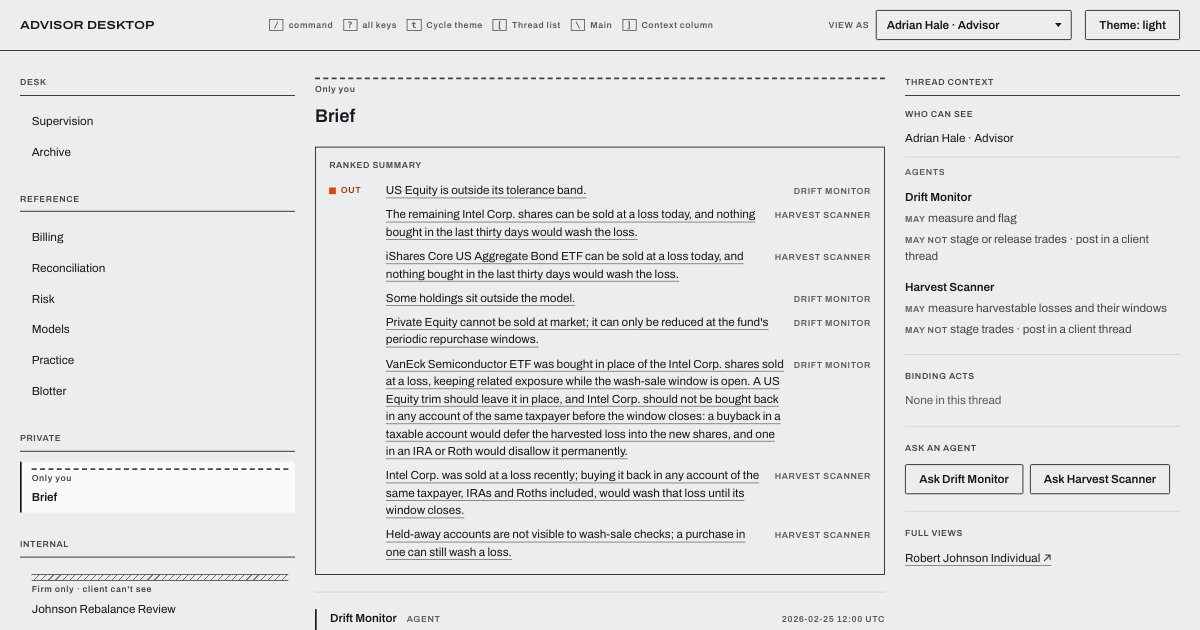
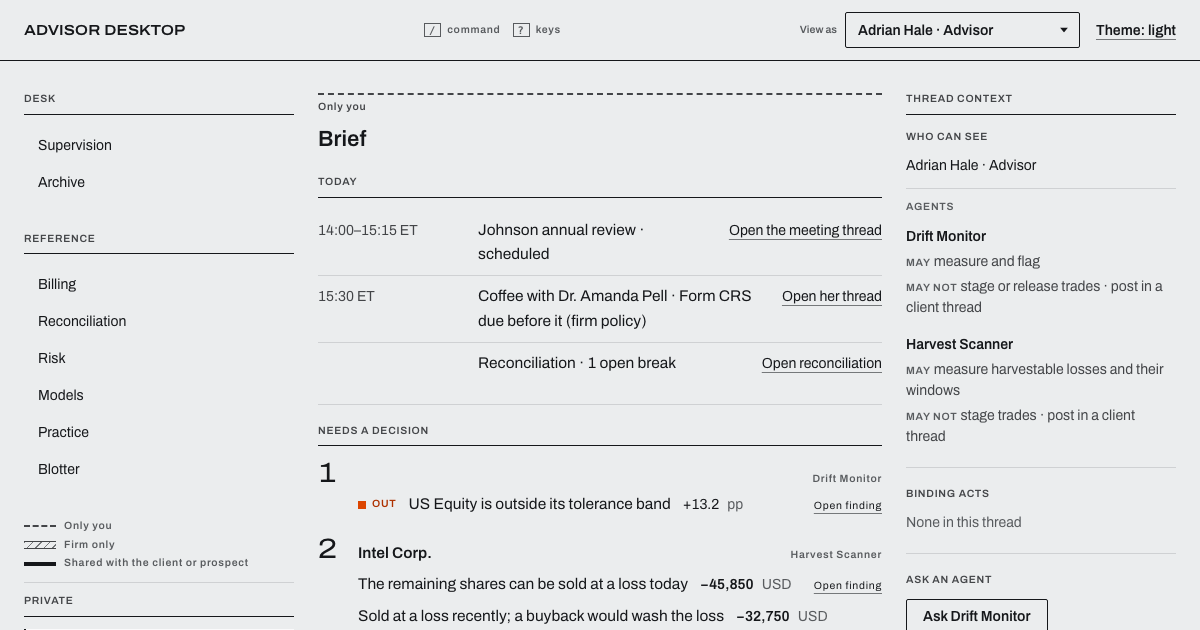
docs(readme): the five-minute path through Today, Needs a decision and the Take to menu; the README spec performs it; mobile CLS measured
The README and its spec follow the home page's eight steps, the Brief's Today, Needs a decision and
Context, and the finding's Take to menu; the spec runs axe at every dialog it opens. The hero alt, the
social card's alt and the social card itself show the new Brief. One clock in What it enforces; axe in
How it is built. pnpm measure:cls <base-url> measures mobile layout shift.

Mobile CLS (Pixel 7, 4x CPU, slow 4G, worst of three): / 0.000, /t/th-brief 0.000.

diff --git a/e2e-visual/workspace-steps.ts b/e2e-visual/workspace-steps.ts
@@ -40,6 +40,15 @@ export async function visitPhone(page: Page, path: string, theme: Theme) {
   if (pane === 'Thread') await expect(page.getByRole('heading', { level: 1 })).toBeVisible()
 }
 
+/** A check run while a step's dialog is open, before the step confirms it (the README path runs axe here). */
+export type AtDialog = (page: Page) => Promise<void>
+
+async function checkOpenDialog(dialog: Locator, atDialog: AtDialog | undefined) {
+  if (!atDialog) return
+  await expect(dialog).toBeVisible()
+  await atDialog(dialog.page())
+}
+
 export const heading = (page: Page) => page.getByRole('heading', { level: 1 })
 export const conversation = (page: Page) => page.getByRole('list', { name: 'Messages' })
 export const context = (page: Page) => page.getByRole('complementary', { name: 'Thread context' })
@@ -85,10 +94,12 @@ export const deskLink = (page: Page, name: 'Supervision' | 'Archive' | 'Billing'
   page.getByRole('navigation', { name: 'Threads' }).getByRole('link', { name, exact: true })
 
 /** The presenter's shortcut beside pending staged orders: Mark's default release, confirmed. */
-export async function releaseByShortcut(page: Page) {
+export async function releaseByShortcut(page: Page, atDialog?: AtDialog) {
   const panel = approvalOf(page)
   await panel.getByRole('button', { name: 'Demo · act as Mark Davis' }).click()
-  await page.getByRole('dialog', { name: /^Release v\d+ as Mark Davis\?$/ }).getByRole('button', { name: 'Confirm' }).click()
+  const dialog = page.getByRole('dialog', { name: /^Release v\d+ as Mark Davis\?$/ })
+  await checkOpenDialog(dialog, atDialog)
+  await dialog.getByRole('button', { name: 'Confirm' }).click()
   await expect(panel).toContainText('Released by compliance; filled at the day\'s prices.')
 }
 
@@ -101,9 +112,11 @@ export async function runPrep(page: Page) {
   await expect(page.getByRole('list', { name: 'Agenda · v1' })).toBeVisible()
 }
 
-export async function holdTheMeeting(page: Page) {
+export async function holdTheMeeting(page: Page, atDialog?: AtDialog) {
   await page.getByRole('button', { name: 'Hold the meeting', exact: true }).click()
-  await page.getByRole('dialog', { name: 'Hold the meeting?' }).getByRole('button', { name: 'Hold the meeting', exact: true }).click()
+  const dialog = page.getByRole('dialog', { name: 'Hold the meeting?' })
+  await checkOpenDialog(dialog, atDialog)
+  await dialog.getByRole('button', { name: 'Hold the meeting', exact: true }).click()
   await expect(page.getByRole('button', { name: 'Draft notes', exact: true })).toBeVisible()
 }
 
@@ -112,9 +125,11 @@ export async function draftNotes(page: Page) {
   await expect(page.getByRole('button', { name: 'File the record', exact: true })).toBeVisible()
 }
 
-export async function fileRecord(page: Page) {
+export async function fileRecord(page: Page, atDialog?: AtDialog) {
   await page.getByRole('button', { name: 'File the record', exact: true }).click()
-  await page.getByRole('dialog', { name: /^File the record of the .+\?$/ }).getByRole('button', { name: 'Confirm', exact: true }).click()
+  const dialog = page.getByRole('dialog', { name: /^File the record of the .+\?$/ })
+  await checkOpenDialog(dialog, atDialog)
+  await dialog.getByRole('button', { name: 'Confirm', exact: true }).click()
   await expect(page.getByText(/^Filed · REC-\d{4}/).first()).toBeVisible()
 }
 
@@ -136,16 +151,20 @@ export const PELL_ACCEPTANCE_TEXT = "I've read the proposal and I'd like to go a
 const JUMP_LABEL = { reply: 'Advance to her reply · Thu 26 Feb 09:10 ET', acceptance: 'Advance to her acceptance · Mon 2 Mar 10:00 ET' } as const
 
 /** A disclosure from her thread's timeline (or the onboarding checklist), confirmed as a binding act. */
-export async function deliver(page: Page, short: 'Form CRS' | 'ADV Part 2A' | 'ADV Part 2B' | 'privacy notice') {
+export async function deliver(page: Page, short: 'Form CRS' | 'ADV Part 2A' | 'ADV Part 2B' | 'privacy notice', atDialog?: AtDialog) {
   await context(page).getByRole('button', { name: `Deliver ${short}`, exact: true }).click()
-  await page.getByRole('dialog', { name: `Deliver ${short} to Dr. Amanda Pell?` }).getByRole('button', { name: 'Confirm' }).click()
+  const dialog = page.getByRole('dialog', { name: `Deliver ${short} to Dr. Amanda Pell?` })
+  await checkOpenDialog(dialog, atDialog)
+  await dialog.getByRole('button', { name: 'Confirm' }).click()
   await expect(context(page).getByRole('button', { name: `Deliver ${short}`, exact: true })).toHaveCount(0)
 }
 
-export async function recordTheCoffee(page: Page) {
+export async function recordTheCoffee(page: Page, atDialog?: AtDialog) {
   const clock = context(page).getByRole('region', { name: 'Clock' })
   await clock.getByRole('button', { name: 'Record the coffee' }).click()
-  await page.getByRole('dialog', { name: 'Record the coffee' }).getByRole('button', { name: 'Record', exact: true }).click()
+  const dialog = page.getByRole('dialog', { name: 'Record the coffee' })
+  await checkOpenDialog(dialog, atDialog)
+  await dialog.getByRole('button', { name: 'Record', exact: true }).click()
   await expect(clock).toContainText('Coffee recorded')
 }
 
@@ -158,33 +177,39 @@ export async function askAgentNamed(page: Page, name: string) {
   await context(page).getByRole('region', { name: 'Ask an agent' }).getByRole('button', { name: `Ask ${name}`, exact: true }).click()
 }
 
-export async function reviseToTwoTaxYears(page: Page) {
+export async function reviseToTwoTaxYears(page: Page, atDialog?: AtDialog) {
   const proposal = page.getByRole('region', { name: 'Proposal · Pell proposal' })
   await proposal.getByRole('button', { name: 'Revise' }).click()
   const dialog = page.getByRole('dialog', { name: 'Revise the Pell proposal' })
+  await checkOpenDialog(dialog, atDialog)
   await dialog.getByLabel('Staged sale of the concentrated stock').selectOption('2')
   await dialog.getByRole('button', { name: 'Ask for v2' }).click()
   await expect(proposal.getByRole('table', { name: 'Staged sale option · v2' })).toBeVisible()
 }
 
-export async function approveProspect(page: Page, version: number) {
+export async function approveProspect(page: Page, version: number, atDialog?: AtDialog) {
   const approval = context(page).getByRole('region', { name: 'Approval · Pell proposal' })
   await approval.getByRole('checkbox', { name: `I reviewed v${version}: its model, its transfer plan, its fees and the best-interest record.` }).check()
   await approval.getByRole('button', { name: `Approve v${version}` }).click()
-  await page.getByRole('dialog', { name: `Approve v${version} of the Pell proposal?` }).getByRole('button', { name: 'Confirm' }).click()
+  const dialog = page.getByRole('dialog', { name: `Approve v${version} of the Pell proposal?` })
+  await checkOpenDialog(dialog, atDialog)
+  await dialog.getByRole('button', { name: 'Confirm' }).click()
   await expect(approval).toContainText(`v${version} is approved`)
 }
 
-export async function sendToHer(page: Page, version: number) {
+export async function sendToHer(page: Page, version: number, atDialog?: AtDialog) {
   await context(page).getByRole('region', { name: 'Proposal' }).getByRole('button', { name: `Send v${version} to Dr. Pell` }).click()
-  await page.getByRole('dialog', { name: `Send v${version} to Dr. Pell?` }).getByRole('button', { name: 'Confirm' }).click()
+  const dialog = page.getByRole('dialog', { name: `Send v${version} to Dr. Pell?` })
+  await checkOpenDialog(dialog, atDialog)
+  await dialog.getByRole('button', { name: 'Confirm' }).click()
   await expect(conversation(page)).toContainText('Dear Dr. Pell,')
 }
 
 /** Resolve a reconciliation break as a binding act, from the reconciliation view. */
-export async function resolveBreakNamed(page: Page, breakId: string, resolution: string, rationale: string) {
+export async function resolveBreakNamed(page: Page, breakId: string, resolution: string, rationale: string, atDialog?: AtDialog) {
   await page.getByRole('button', { name: `Resolve ${breakId}`, exact: true }).click()
   const dialog = page.getByRole('dialog', { name: `Resolve ${breakId}?` })
+  await checkOpenDialog(dialog, atDialog)
   await dialog.getByLabel('Resolution').selectOption({ label: resolution })
   await dialog.getByLabel('Rationale').fill(rationale)
   await dialog.getByRole('button', { name: 'Confirm' }).click()

diff --git a/e2e-visual/readme-path.spec.ts b/e2e-visual/readme-path.spec.ts
@@ -1,22 +1,32 @@
 import { test, expect } from '@playwright/test'
+import { expectNoAxeViolations } from './axe'
 import {
   PELL_ACCEPTANCE_TEXT, advanceTo, approve, approveProspect, askAgentNamed, askForRecap, context, conversation, deliver, deskLink,
   draftNotes, embedOf, fileRecord, heading, holdTheMeeting, letterDraft, meetingPanel, recordTheCoffee, releaseByShortcut,
   resolveBreakNamed, reviseToTwoTaxYears, runPrep, sendToHer, takeFindingTo, takeToTeamThread, threadLink, viewAs, visit,
 } from './workspace-steps'
 
-/** The README's guided path, click for click and in its order, from a fresh session as Adrian Hale. */
+/** The README's guided path, click for click and in its order, from a fresh session as Adrian Hale; axe runs at every dialog. */
 test("the README's five-minute path, end to end", async ({ page }) => {
   test.setTimeout(600_000)
   await page.setViewportSize({ width: 1440, height: 900 })
   const back = () => page.getByRole('link', { name: 'Back to the thread' }).click()
   const home = () => page.getByRole('banner').getByRole('link', { name: 'Advisor Desktop' }).click()
+  const path = page.getByRole('list', { name: 'The five-minute path' }).getByRole('listitem')
+  const axe = expectNoAxeViolations
 
-  // 1. The Brief.
+  // The home page: the eight steps, the first one next.
   await visit(page, '/', 'light')
+  await expect(path).toHaveCount(8)
+  await expect(path.first()).toContainText('NEXT')
+
+  // 1. The Brief: Today, Needs a decision, Context.
   await threadLink(page, 'Brief').click()
   await expect(heading(page)).toHaveText('Brief')
-  await expect(page.getByRole('region', { name: 'Needs a decision' })).toBeVisible()
+  const today = page.getByRole('region', { name: 'Today' })
+  await expect(today).toContainText('14:00–15:15 ET')
+  await expect(today).toContainText('Coffee with Dr. Amanda Pell · Form CRS due before it (firm policy)')
+  await expect(page.getByRole('region', { name: 'Needs a decision' })).toContainText('Intel Corp.')
 
   // 2. The Johnson rebalance and harvest: the finding to the team thread, v1, v2 "harvest only", v3 in the workbench, approved.
   const intc = conversation(page).getByRole('article', { name: /^Harvest Scanner: The remaining Intel Corp\. shares can be sold at a loss today/ })
@@ -27,6 +37,8 @@ test("the README's five-minute path, end to end", async ({ page }) => {
   await expect(embed.getByRole('table', { name: 'Proposal legs · v1' })).toBeVisible()
   await embed.getByRole('button', { name: 'Revise' }).click()
   const revise = page.getByRole('dialog', { name: 'Revise the proposal' })
+  await expect(revise).toBeVisible()
+  await axe(page)
   await revise.getByRole('checkbox', { name: 'Harvest only: sell only lots at a loss' }).check()
   await revise.getByRole('button', { name: 'Ask Proposal Agent to revise' }).click()
   await expect(embed.getByRole('table', { name: 'Proposal legs · v2' })).toBeVisible()
@@ -40,7 +52,7 @@ test("the README's five-minute path, end to end", async ({ page }) => {
   await approve(page, 3)
 
   // 3. The compliance release as Mark Davis, through the presenter's shortcut.
-  await releaseByShortcut(page)
+  await releaseByShortcut(page, axe)
 
   // 4. The blotter and the moved book.
   await page.getByRole('link', { name: 'Open in the blotter' }).first().click()
@@ -52,6 +64,7 @@ test("the README's five-minute path, end to end", async ({ page }) => {
   await back()
   await threadLink(page, 'Brief').click()
   await expect(page.getByRole('region', { name: 'Needs a decision' })).not.toContainText('Intel Corp.')
+  await expect(page.getByRole('region', { name: 'Context' })).toContainText('Intel Corp.')
 
   // 5. The Johnson annual review: prep, hold, notes, file, recap.
   await page.getByRole('region', { name: 'Today' }).getByRole('link', { name: 'Open the meeting thread' }).click()
@@ -61,9 +74,9 @@ test("the README's five-minute path, end to end", async ({ page }) => {
   await meetingPanel(page).getByRole('button', { name: 'Add to agenda', exact: true }).click()
   await expect(meetingPanel(page).getByRole('list', { name: 'Agenda · v2' })).toBeVisible()
   await meetingPanel(page).getByRole('link', { name: /Open the meeting view/ }).click()
-  await holdTheMeeting(page)
+  await holdTheMeeting(page, axe)
   await draftNotes(page)
-  await fileRecord(page)
+  await fileRecord(page, axe)
   await back()
   await threadLink(page, 'Robert Johnson').click()
   await askForRecap(page)
@@ -74,17 +87,17 @@ test("the README's five-minute path, end to end", async ({ page }) => {
   await threadLink(page, 'Brief').click()
   await page.getByRole('region', { name: 'Today' }).getByRole('link', { name: 'Open her thread' }).click()
   await expect(heading(page)).toHaveText('Dr. Amanda Pell')
-  await deliver(page, 'Form CRS')
-  await recordTheCoffee(page)
+  await deliver(page, 'Form CRS', axe)
+  await recordTheCoffee(page, axe)
   await advanceTo(page, 'reply')
   await threadLink(page, 'Pell · prospect work').click()
   await askAgentNamed(page, 'Prospect Profile')
   await askAgentNamed(page, 'Transfer-In')
   await askAgentNamed(page, 'Proposal Agent')
-  await reviseToTwoTaxYears(page)
-  await approveProspect(page, 2)
+  await reviseToTwoTaxYears(page, axe)
+  await approveProspect(page, 2, axe)
   await threadLink(page, 'Dr. Amanda Pell').click()
-  await sendToHer(page, 2)
+  await sendToHer(page, 2, axe)
   await advanceTo(page, 'acceptance')
   await expect(conversation(page)).toContainText(PELL_ACCEPTANCE_TEXT)
   await threadLink(page, 'Pell · prospect work').click()
@@ -98,11 +111,12 @@ test("the README's five-minute path, end to end", async ({ page }) => {
     await home()
   }
   await deskLink(page, 'Reconciliation').click()
-  await resolveBreakNamed(page, 'brk-002', 'Timing difference', 'Schwab confirmed the 24 Feb cash sweep posted after the file was cut.')
+  await resolveBreakNamed(page, 'brk-002', 'Timing difference', 'Schwab confirmed the 24 Feb cash sweep posted after the file was cut.', axe)
   await home()
   await deskLink(page, 'Risk').click()
   await takeToTeamThread(page, 'Patel Digital Assets Account')
   await home()
+  await expect(path.nth(7)).toContainText('NEXT')
 
   // 8. View as Robert: one thread, his own — his question, the recap and its record.
   await viewAs(page, 'Robert Johnson · Client')

diff --git a/index.html b/index.html
@@ -26,7 +26,7 @@
     <meta property="og:image:width" content="1200" />
     <meta property="og:image:height" content="630" />
     <meta property="og:image:type" content="image/png" />
-    <meta property="og:image:alt" content="The Brief in the Advisor Desktop workspace: a ranked summary, then each agent's finding with its sources" />
+    <meta property="og:image:alt" content="The Brief in the Advisor Desktop workspace: today's calendar, then what needs a decision, each with its figure" />
     <meta name="twitter:card" content="summary_large_image" />
     <meta name="twitter:title" content="Advisor Desktop · Larkfield Advisory workspace (demo)" />
     <meta name="twitter:description" content="A demo workspace for a fictional investment adviser: threads where the advisor, the firm's agents, compliance and the client each see only their part, and every binding step is a recorded act." />

diff --git a/README.md b/README.md
@@ -6,15 +6,15 @@ A multiplayer workspace for the advisors of Larkfield Advisory, a fictional SEC-
 
 **Live:** https://advisor.joelelewis.com
 
-![The Brief: a ranked summary, then each agent's finding with its sources](e2e-visual/__baselines__/brief-light.png)
+![The Brief: today's calendar, what needs a decision with its figures, the context folded, then each agent's finding with its sources](e2e-visual/__baselines__/brief-light.png)
 
 ## Five minutes, click by click
 
-You are Adrian Hale, the advisor. Nobody else acts live: colleagues' history is seeded, agents do the analysis, and **View as** shows what each person can see. Follow the steps in order: the clock only moves forward, and a reload starts the demo over.
+You are Adrian Hale, the advisor. Nobody else acts live: colleagues' history is seeded, agents do the analysis, and **View as** shows what each person can see. The home page lists these eight steps and marks each one done as you go. Follow them in order: the clock only moves forward, and a reload starts the demo over. Single-key shortcuts (`/`, `?`, `t`) can be turned off in the key sheet (**Ctrl/⌘ /**); **Ctrl/⌘ K** always opens the command line.
 
-1. **The Brief.** Choose **Brief** in the thread list. The ranked summary leads with what needs attention.
+1. **The Brief.** Choose **Brief** in the thread list. **Today** lists the day in Eastern Time: the 14:00 annual review, the 15:30 coffee with Dr. Pell (Form CRS due before it, firm policy) and the open reconciliation break. **Needs a decision** ranks what would change a trade, each with its figure; **Context** holds the rest, folded.
 2. **The Johnson rebalance and harvest.**
-   - On the Harvest Scanner's Intel finding, choose **Take to team thread**, then open **Johnson Rebalance Review**.
+   - On the Harvest Scanner's finding about the remaining Intel shares, choose **Take to**, then **Johnson Rebalance Review**, and open **Johnson Rebalance Review**.
    - In the context column choose **Ask Proposal Agent**: v1 appears in the thread.
    - On the proposal choose **Revise**, tick **Harvest only: sell only lots at a loss** and choose **Ask Proposal Agent to revise**: v2.
    - Choose **Workbench**. In **Legs · v2** move to the QAI row and press **x** to exclude it; press **⌘S** (Ctrl+S) to save v3. Choose **Back to the thread**.
@@ -27,15 +27,15 @@ You are Adrian Hale, the advisor. Nobody else acts live: colleagues' history is 
 
    ![The thread after the release: the approval and release records, and the fills](e2e-visual/__baselines__/thread-after-release-light.png)
 
-4. **The blotter and the moved book.** On the fills choose **Open in the blotter**: each order filled, under the release's record. Choose **Back to the thread**, then **Robert Johnson Individual** in the context column: Intel is gone from the holdings. Choose **Back to the thread** and open the **Brief**: the Intel harvest has left the summary.
+4. **The blotter and the moved book.** On the fills choose **Open in the blotter**: each order filled, under the release's record. Choose **Back to the thread**, then **Robert Johnson Individual** in the context column: Intel is gone from the holdings. Choose **Back to the thread** and open the **Brief**: Intel has left **Needs a decision**, and its two realized losses sit under **Context**.
 
    ![The blotter: every order across accounts, with its status and record](e2e-visual/__baselines__/blotter-light.png)
 
-5. **The Johnson annual review.** In the Brief, on the meeting line, choose **Open the meeting thread**. Choose **Run prep**, add an item with **New agenda item** and **Add to agenda**, then **Open the meeting view**, choose **Hold the meeting** and **Hold the meeting** again in its dialog. Choose **Draft notes** (hover a citation to light its transcript line), then **File the record** and **Confirm**. Choose **Back to the thread**, open **Robert Johnson**, choose **Ask Client Letter Agent for the recap** and **Send to Robert**.
+5. **The Johnson annual review.** In the Brief, under **Today**, on the annual review's line choose **Open the meeting thread**. Choose **Run prep**, add an item with **New agenda item** and **Add to agenda**, then **Open the meeting view**, choose **Hold the meeting** and **Hold the meeting** again in its dialog. Choose **Draft notes** (hover a citation to light its transcript line), then **File the record** and **Confirm**. Choose **Back to the thread**, open **Robert Johnson**, choose **Ask Client Letter Agent for the recap** and **Send to Robert**.
 
    ![The filed notes beside the transcript, every line citing it](e2e-visual/__baselines__/meeting-after-light.png)
 
-6. **Dr. Amanda Pell, first contact to onboarding.** In the Brief, on the referral, choose **Open her thread**. Choose **Deliver Form CRS** and **Confirm**, then **Record the coffee** and **Record** in its dialog, then **Advance to her reply · Thu 26 Feb 09:10 ET**. In **Pell · prospect work** choose **Ask Prospect Profile**, **Ask Transfer-In** and **Ask Proposal Agent**. Transfer-In weighs moving each holding in kind against selling it, with the gain and a tax estimate; her 403(b) rollover is only asked about, comparison to follow. On the proposal choose **Revise**, set **Staged sale of the concentrated stock** to **Over two tax years** and choose **Ask for v2**; tick the review, choose **Approve v2** and **Confirm**. In **Dr. Amanda Pell** choose **Send v2 to Dr. Pell** (Form ADV Part 2A goes with it) and **Confirm**, then **Advance to her acceptance · Mon 2 Mar 10:00 ET**. Her onboarding checklist opens in **Pell · prospect work**.
+6. **Dr. Amanda Pell, first contact to onboarding.** In the Brief, under **Today**, on the coffee's line choose **Open her thread**. Choose **Deliver Form CRS** and **Confirm**, then **Record the coffee** and **Record** in its dialog, then **Advance to her reply · Thu 26 Feb 09:10 ET**. In **Pell · prospect work** choose **Ask Prospect Profile**, **Ask Transfer-In** and **Ask Proposal Agent**. Transfer-In weighs moving each holding in kind against selling it, with the gain and a tax estimate; her 403(b) rollover is only asked about, comparison to follow. On the proposal choose **Revise**, set **Staged sale of the concentrated stock** to **Over two tax years** and choose **Ask for v2**; tick the review, choose **Approve v2** and **Confirm**. In **Dr. Amanda Pell** choose **Send v2 to Dr. Pell** (Form ADV Part 2A goes with it) and **Confirm**, then **Advance to her acceptance · Mon 2 Mar 10:00 ET**. Her onboarding checklist opens in **Pell · prospect work**.
 
    ![Her thread: Form CRS delivered, her reply, and the proposal sent with Form ADV Part 2A](e2e-visual/__baselines__/pell-thread-light.png)
    ![The prospect work thread with her onboarding opened](e2e-visual/__baselines__/pell-onboarding-light.png)
@@ -60,6 +60,7 @@ An end-to-end test performs these clicks in this order (`e2e-visual/readme-path.
 - **Wash sales scoped to the taxpayer.** IRC §1091 is applied lot by lot to the taxpayer, looking thirty days back and forward: the owner and spouse, their IRAs and Roths included, while an irrevocable trust is its own taxpayer. A loss washed by a purchase in an IRA or Roth is disallowed for good, not deferred; coins held directly are outside the rule (`src/lib/wash-sale.ts`, `src/mocks/handlers/tax-return.ts`). Every tax figure is an estimate at top federal rates, and the app says to consult your tax professional.
 - **Disclosure timing as firm policy.** Form CRS comes before or with the first recommendation, so a proposal cannot be sent until it is delivered. Form ADV Part 2A goes with the proposal if it has not gone before. Both rules are labeled firm policy (`src/mocks/workspace/prospect-acts.ts`, `src/workspace/prospect/prospect-words.ts`).
 - **Agents' claims carry no digits.** An agent's sentence names things in words; every figure travels as a figure with its source and is formatted by the kit, so no number is typed twice (`src/mocks/agents/__tests__/agents.test.ts`).
+- **One clock.** Every time people read is Eastern Time with its zone ("25 Feb 07:00 ET"); UTC appears only in a record slip, labeled, beside its fingerprint (`src/kit/measure.ts`, `src/__tests__/guardrails/one-clock.test.ts`).
 - **Modeled or derived, and labeled.** Each reference view ends with Methods & sources. A figure from a model (volatility, factor exposure, a quarter-end value) is tagged MODELED with its method; everything else is derived from the book.
 
 ## How it is built
@@ -67,7 +68,7 @@ An end-to-end test performs these clicks in this order (`e2e-visual/readme-path.
 - **React 18, TypeScript (strict), Vite 6, Tailwind v4** with the instrument palette as theme tokens, **TanStack Query** for server state, **React Router**.
 - **MSW is the server.** Every `/api` request is answered in the browser by a service worker. The engine behind it lives in `src/mocks`: the book, the session portfolio ledger every read goes through, the event clock that stamps each record, the agents and the acts. The UI reads the engine only through the API, a rule a guard test enforces.
 - **The kit** (`src/kit`): buttons, tables, dialogs, readings, record slips and formatters, with guardrail tests for palette, contrast, headings, the mocks boundary, routes and API routes (`src/__tests__/guardrails`). The kit's gallery is at `/kit`.
-- **Tests:** Vitest and Testing Library for the engine and the UI; Playwright for exact visual baselines and the end-to-end stories (`e2e-visual`). CI runs lint, type-check, the unit suite and the build on every pull request and on `main`.
+- **Tests:** Vitest and Testing Library for the engine and the UI; Playwright for exact visual baselines, axe on every scene, and the end-to-end stories (`e2e-visual`). CI runs lint, type-check, the unit suite and the build on every pull request and on `main`.
 
 ## Run it
 
